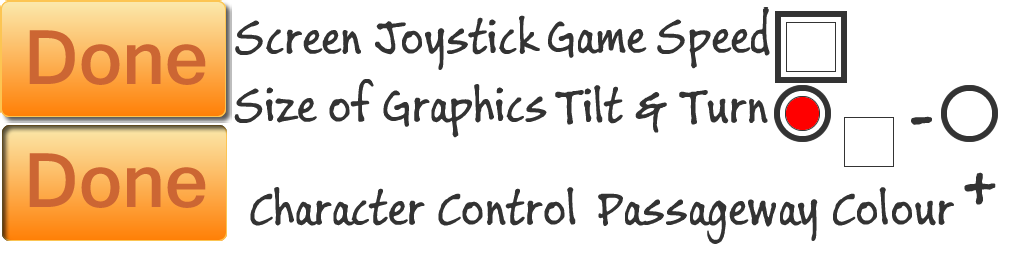
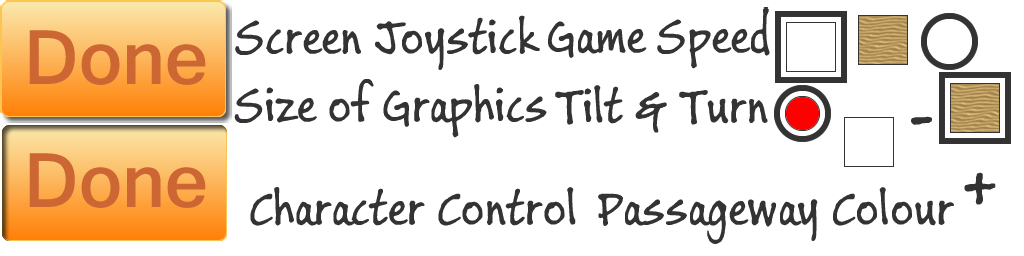
Screen Touch Pad - tuned

Changed region(s): [[0.8125, 0.0312, 1.0, 0.5625]]

diff --git a/crypt/src/com/crypt/WorldController.java b/crypt/src/com/crypt/WorldController.java
@@ -318,25 +318,7 @@ public class WorldController implements InputProcessor
 		touchPoint = renderer.unprojected(screenX, screenY);
 		if (renderer.touchPad.contains(touchPoint.x, touchPoint.y))
 		{
-			direction = renderer.joystickMovement(touchPoint.x, touchPoint.y);
-			
-			// horizontal movement
-			if (direction.x < -renderer.touchPad.radius / 10) {
-				character.moveRight();
-			} else if (direction.x > renderer.touchPad.radius / 10) {
-				character.moveLeft();
-			} else {
-				character.stopHoziontialMove();
-			}
-
-			// vertical movement
-			if (direction.y < -renderer.touchPad.radius / 10) {
-				character.moveUp();
-			} else if (direction.y > renderer.touchPad.radius / 10) {
-				character.moveDown();
-			} else {
-				character.stopVerticalMove();
-			}	
+			touchpadMovement(touchPoint);
 		}
 		else
 		{
@@ -365,25 +347,7 @@ public class WorldController implements InputProcessor
 		touchPoint = renderer.unprojected(screenX, screenY);
 		if (renderer.touchPad.contains(touchPoint.x, touchPoint.y))
 		{
-			direction = renderer.joystickMovement(touchPoint.x, touchPoint.y);
-			
-			// horizontal movement
-			if (direction.x < -renderer.touchPad.radius / 10) {
-				character.moveRight();
-			} else if (direction.x > renderer.touchPad.radius / 10) {
-				character.moveLeft();
-			} else {
-				character.stopHoziontialMove();
-			}
-
-			// vertical movement
-			if (direction.y < -renderer.touchPad.radius / 10) {
-				character.moveUp();
-			} else if (direction.y > renderer.touchPad.radius / 10) {
-				character.moveDown();
-			} else {
-				character.stopVerticalMove();
-			}	
+			touchpadMovement(touchPoint);
 		}
 		return true;
 	}
@@ -401,5 +365,28 @@ public class WorldController implements InputProcessor
 	public void setRender(WorldRenderer renderer) {
 		this.renderer = renderer;
 		
+	}
+	
+	private void touchpadMovement(Vector3 touchPoint)
+	{
+		direction = renderer.joystickMovement(touchPoint.x, touchPoint.y);
+		
+		// horizontal movement
+		if (direction.x < -renderer.touchPad.radius / 7) {
+			character.moveRight();
+		} else if (direction.x > renderer.touchPad.radius / 7) {
+			character.moveLeft();
+		} else {
+			character.stopHoziontialMove();
+		}
+
+		// vertical movement
+		if (direction.y < -renderer.touchPad.radius / 7) {
+			character.moveUp();
+		} else if (direction.y > renderer.touchPad.radius / 7) {
+			character.moveDown();
+		} else {
+			character.stopVerticalMove();
+		}	
 	}
 }

diff --git a/crypt/src/com/crypt/PlayingOptionsScreen.java b/crypt/src/com/crypt/PlayingOptionsScreen.java
@@ -1,13 +1,7 @@
 package com.crypt;
 
-import java.io.BufferedReader;
-import java.io.FileNotFoundException;
-import java.io.IOException;
 import java.util.StringTokenizer;
 
-import sun.rmi.runtime.Log;
-
-import com.badlogic.gdx.Application;
 import com.badlogic.gdx.Gdx;
 import com.badlogic.gdx.Screen;
 import com.badlogic.gdx.audio.Sound;
@@ -183,8 +177,13 @@ public class PlayingOptionsScreen implements Screen
 		stylePassBut.down = graphicSkin.getDrawable("SquareNotChecked");
 		stylePassBut.checked = graphicSkin.getDrawable("SquareChecked");
 		
-		Button buttonPassBlack = new Button(stylePassBut);
-		buttonPassBlack.setColor(0, 0, 0, 1);
+		TextButtonStyle styleStdPassBut = new TextButtonStyle();
+		styleStdPassBut.up = graphicSkin.getDrawable("StandardNotChecked");
+		styleStdPassBut.down = graphicSkin.getDrawable("StandardNotChecked");
+		styleStdPassBut.checked = graphicSkin.getDrawable("StandardChecked");
+		
+		Button buttonPassBlack = new Button(styleStdPassBut);
+		buttonPassBlack.setColor(1, 1, 1, 1);
 		buttonPassBlack.setX(430 + offsetX);
 		buttonPassBlack.setY(440 + offsetY);
 		if (blackground == 0) buttonPassBlack.setChecked(true);

diff --git a/crypt/src/com/crypt/Background.java b/crypt/src/com/crypt/Background.java
@@ -31,8 +31,11 @@ public class Background
 			i++;
 		}
 		
-		// uncomment this line to enable different backgrounds
-		blocks[0] = new TextureRegion(new Texture(Gdx.files.internal("data/Transparent.png")));
+		if (Constant.PASSAGEWAY_COLOUR !=0) 
+		{
+			blocks[Constant.BLOCKVALUES.PASSAGE_NO_WALK.getValue()] = new TextureRegion(new Texture(Gdx.files.internal("data/Transparent.png")));
+			blocks[Constant.BLOCKVALUES.PASSAGE.getValue()] = new TextureRegion(new Texture(Gdx.files.internal("data/Transparent.png")));
+		}
 	}
 	
 	void draw(SpriteBatch batch, Rectangle viewport)
